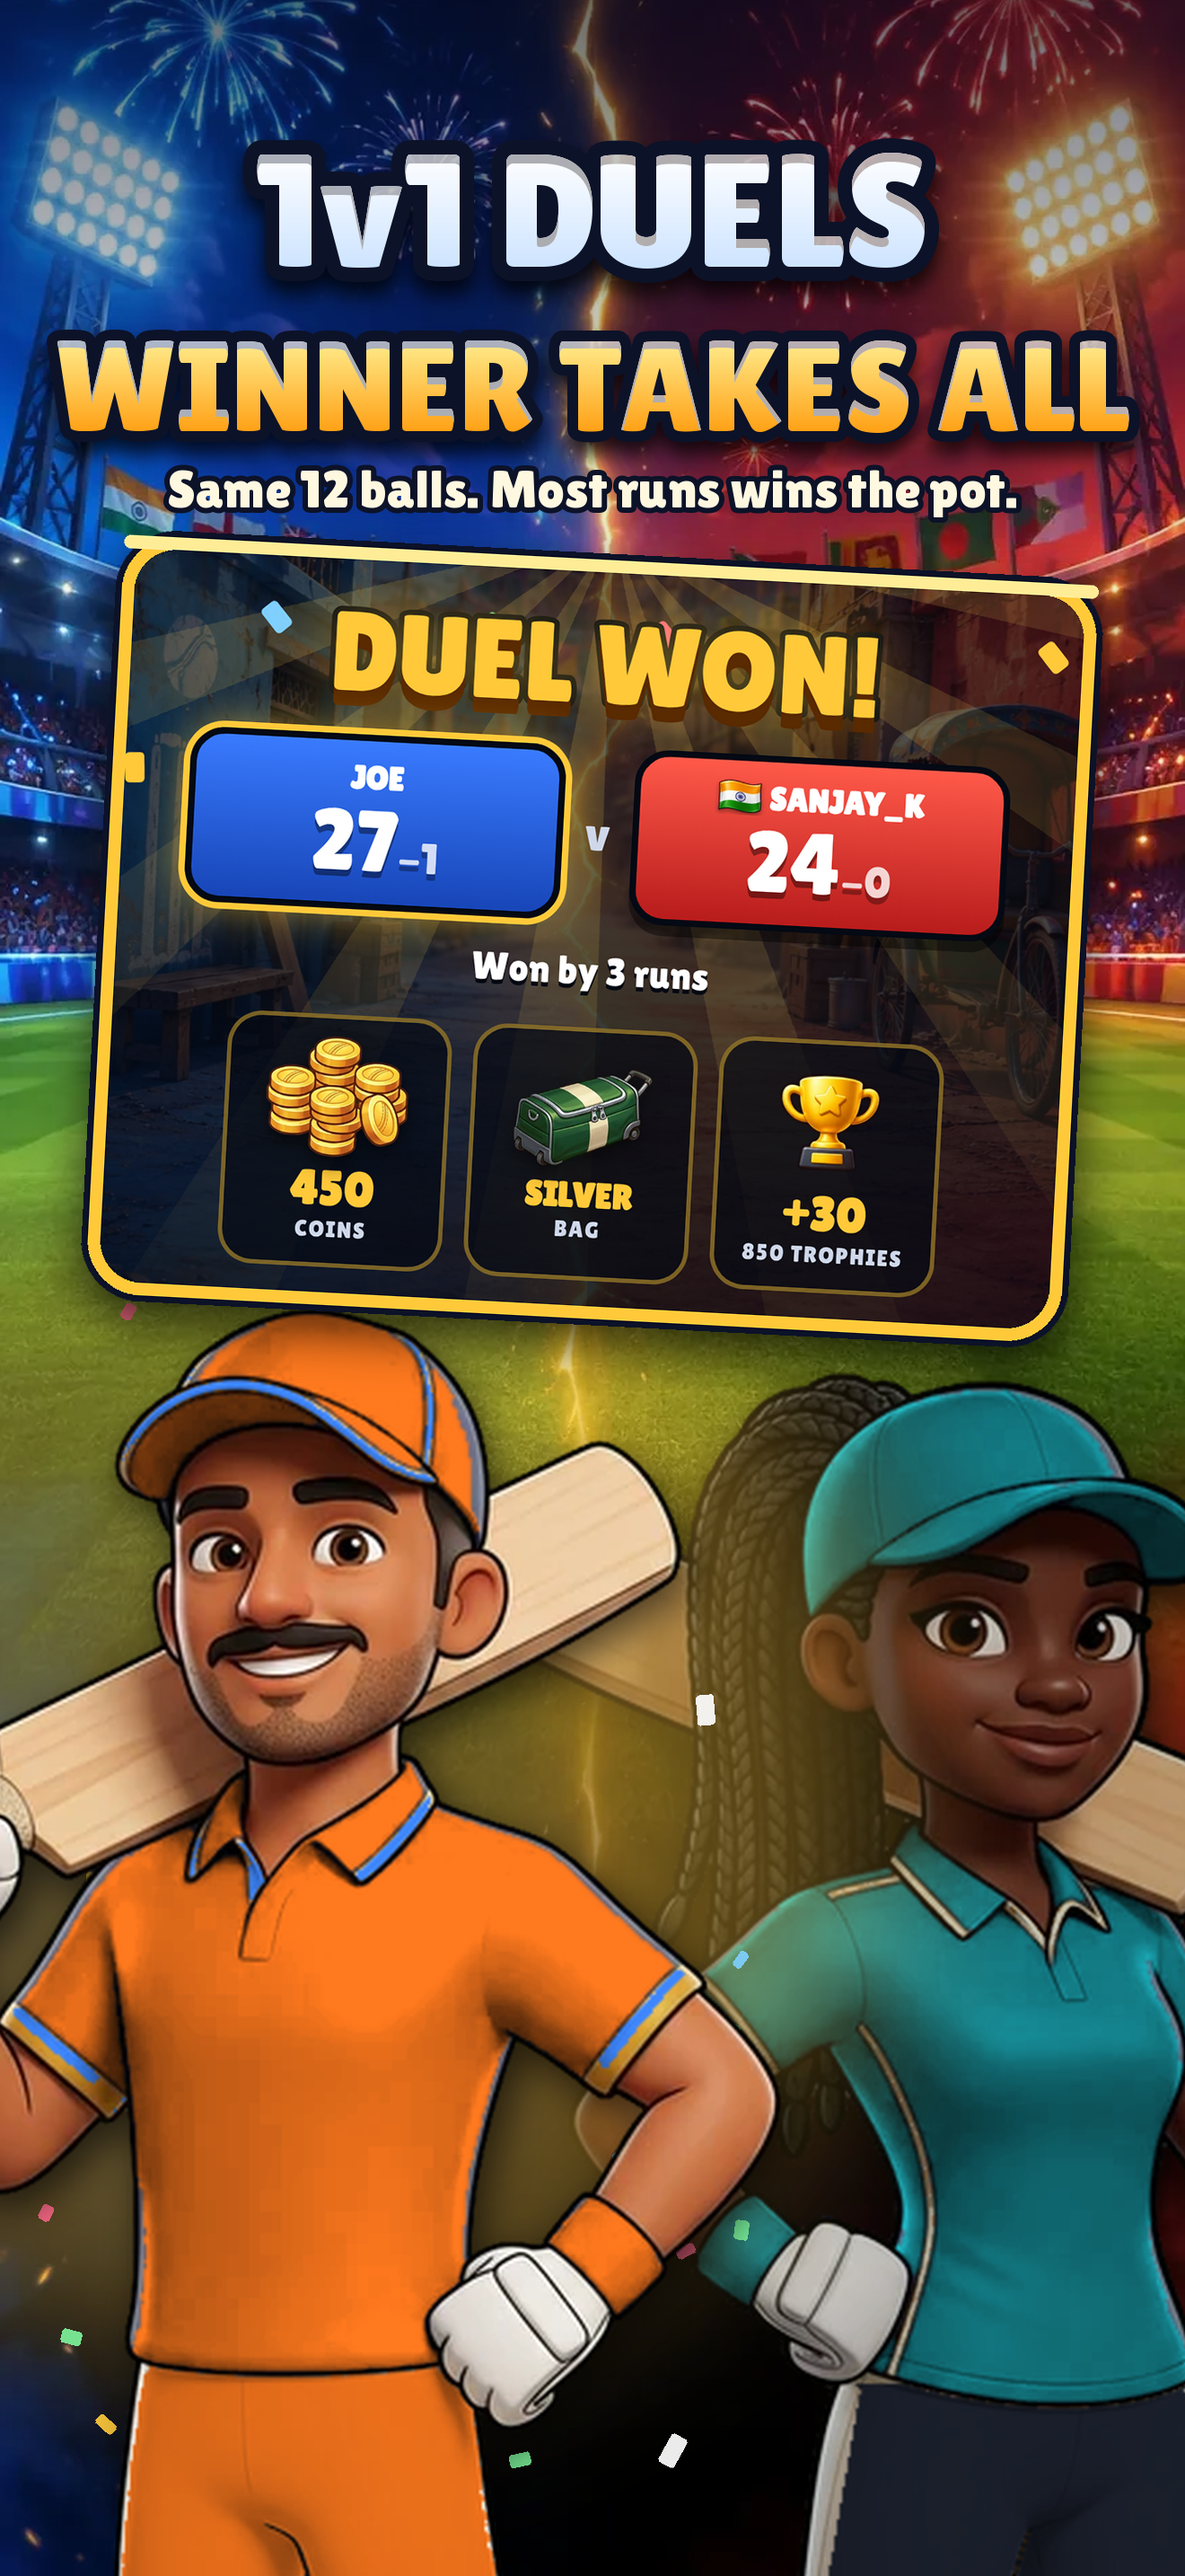
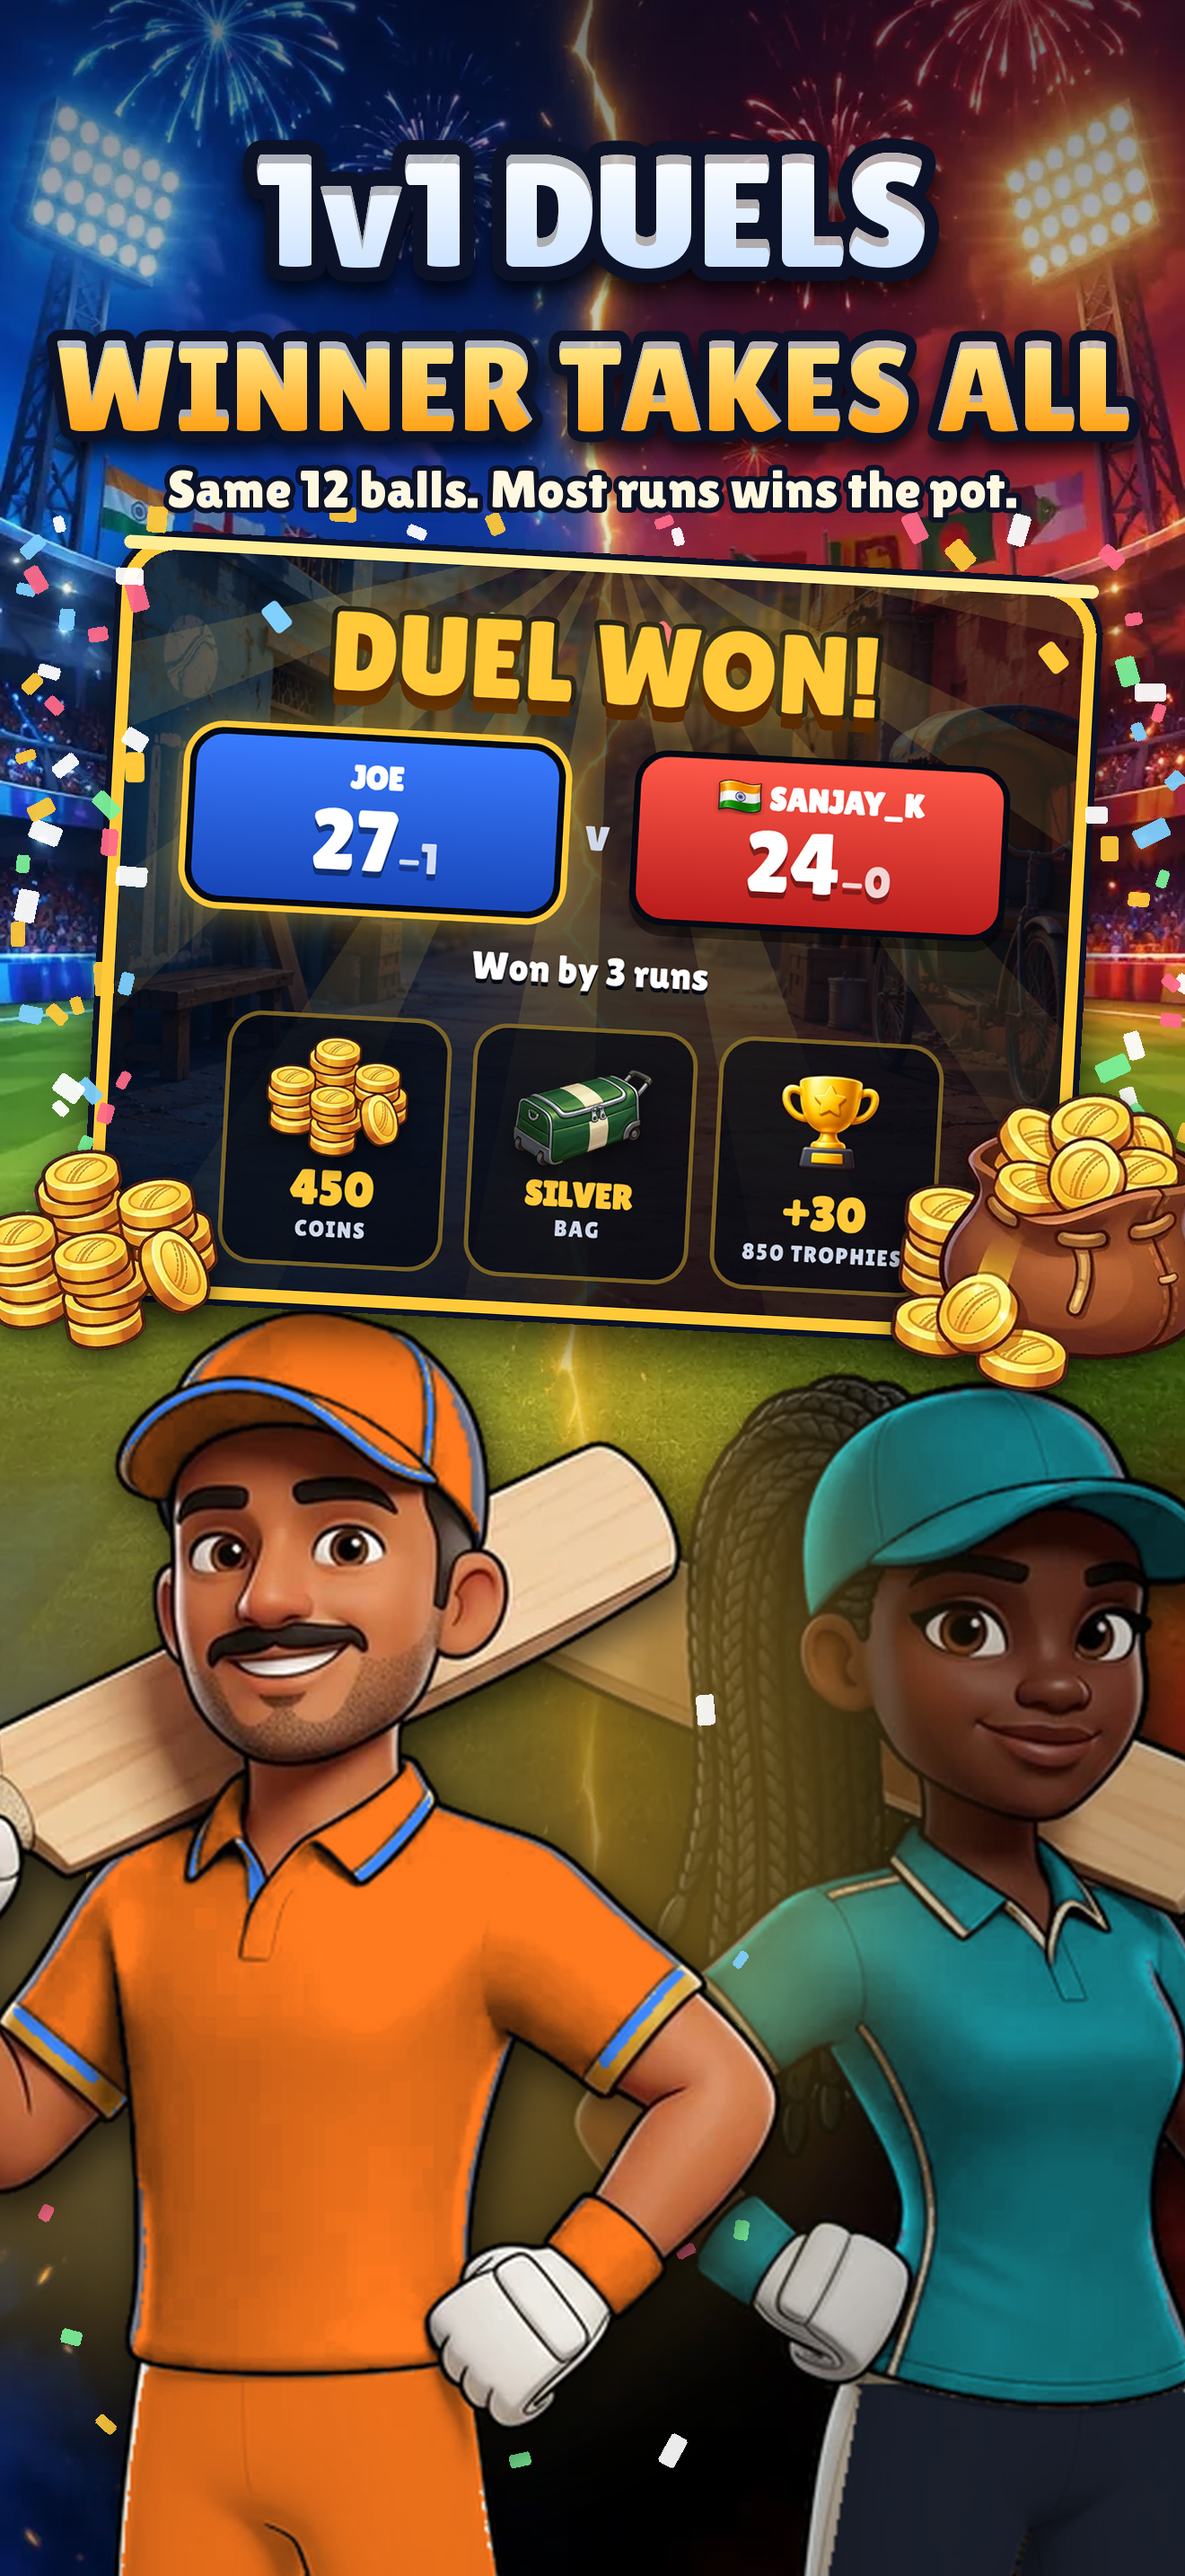
Duels store screenshot: confetti burst and coins spilling around the payout card
Claude-Session: https://claude.ai/code/session_01EnXvJ6P6HcGRxjBSnYPdAU

diff --git a/art/store/duelB.py b/art/store/duelB.py
@@ -36,5 +36,20 @@ g['drop'](im,A,int(W*0.02-A.width*0.30),top,blur=int(20*K),off=(int(10*K),int(18
 t,b=(0.205,0.49) if H/W>2.1 else (0.205,0.46)
 C=g['card']('dw',(0.0,0.24,1,0.595),W*0.86,H*(b-t),-3)
 g['drop'](im,C,int(W*0.5-C.width/2),int(H*t),blur=int(26*K),off=(0,int(22*K)),a=0.7)
+# celebration around the card: a confetti burst at its sides and top, coins spilling off its lower corners
+cx0,cx1,cy0,cy1=W*0.5-C.width/2,W*0.5+C.width/2,H*t,H*b
+for i in range(90):
+    side=rnd.random()
+    if side<0.35: x=rnd.uniform(0,cx0+40*K); y=rnd.uniform(cy0-60*K,cy1)
+    elif side<0.7: x=rnd.uniform(cx1-40*K,W); y=rnd.uniform(cy0-60*K,cy1)
+    else: x=rnd.uniform(cx0,cx1); y=rnd.uniform(cy0-110*K,cy0+10*K)
+    if y<H*0.19: continue
+    w_=rnd.uniform(11,22)*K; h_=w_*rnd.uniform(1.3,1.9); c=rnd.choice([(255,201,58),(255,255,255),(127,208,255),(255,106,138),(124,242,154)])
+    pc=Image.new('RGBA',(int(w_*2),int(h_*2)),(0,0,0,0)); ImageDraw.Draw(pc).rounded_rectangle((w_/2,h_/2,w_*1.5,h_*1.5),int(3*K),fill=c+(240,))
+    pc=pc.rotate(rnd.uniform(0,180),expand=True); im.alpha_composite(pc,(int(x),int(y)))
+wide=H/W<2.1
+for f,cx,sz,rot in ([('coins_l.png',W-cx0*0.55,0.20,-8),('coins_m.png',cx0*0.55,0.15,10)] if wide else [('coins_l.png',cx1-30*K,0.30,-8),('coins_m.png',cx0+20*K,0.20,10)]):
+    cimg=Image.open(f).convert('RGBA'); w=int(W*sz); cimg=cimg.resize((w,int(cimg.height*w/cimg.width)),Image.LANCZOS).rotate(rot,expand=True,resample=Image.BICUBIC)
+    g['drop'](im,cimg,int(cx-cimg.width/2),int((cy0+cy1)/2-cimg.height*0.2 if wide else cy1-cimg.height*0.55),blur=int(14*K),off=(0,int(12*K)),a=0.55)
 g['headline'](im,['1v1 DUELS','WINNER TAKES ALL'],'Same 12 balls. Most runs wins the pot.',int(H*0.035))
 import os; os.makedirs(OUTDIR,exist_ok=True); im.convert('RGB').save(f'{OUTDIR}/02.png',optimize=True); print('ok')
